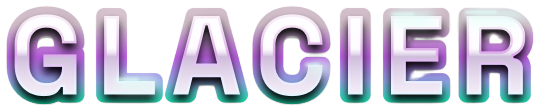
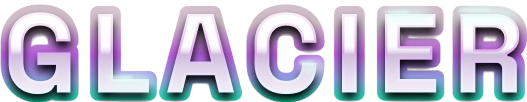
changes to Home and Nav

diff --git a/styles/themes/fantomTheme.ts b/styles/themes/fantomTheme.ts
@@ -18,45 +18,21 @@ export const fantomTheme: Partial<ChakraTheme> = {
     textStyles: {
         h1: {
             fontFamily: `'Space Grotesk', -apple-system, BlinkMacSystemFont, "Segoe UI", Roboto, "Helvetica Neue", Arial, sans-serif`,
-            fontSize: ['3.0rem'],
-            lineHeight: '100%',
-            fontWeight: 'bold',
-            letterSpacing: '-0.1rem',
         },
         h2: {
             fontFamily: `'Space Grotesk', -apple-system, BlinkMacSystemFont, "Segoe UI", Roboto, "Helvetica Neue", Arial, sans-serif`,
-            fontSize: ['2.7rem'],
-            fontWeight: '300',
-            lineHeight: '100%',
-            letterSpacing: '-0.1rem',
         },
         h3: {
             fontFamily: `'Space Grotesk', -apple-system, BlinkMacSystemFont, "Segoe UI", Roboto, "Helvetica Neue", Arial, sans-serif`,
-            fontSize: ['1.8rem'],
-            fontWeight: '300',
-            lineHeight: '115%',
-            letterSpacing: '-0.05rem',
         },
         h4: {
             fontFamily: `'Space Grotesk', -apple-system, BlinkMacSystemFont, "Segoe UI", Roboto, "Helvetica Neue", Arial, sans-serif`,
-            fontSize: ['1.8rem'],
-            fontWeight: '300',
-            lineHeight: '115%',
-            letterSpacing: '-0.05rem',
         },
         h5: {
             fontFamily: `'Space Grotesk', -apple-system, BlinkMacSystemFont, "Segoe UI", Roboto, "Helvetica Neue", Arial, sans-serif`,
-            fontSize: ['1.5rem'],
-            fontWeight: '300',
-            lineHeight: '115%',
-            letterSpacing: '-0.03rem',
         },
         h6: {
             fontFamily: `'Space Grotesk', -apple-system, BlinkMacSystemFont, "Segoe UI", Roboto, "Helvetica Neue", Arial, sans-serif`,
-            fontSize: ['1.2rem'],
-            fontWeight: '300',
-            lineHeight: '115%',
-            letterSpacing: '-0.03rem',
         },
     },
     colors: {

diff --git a/modules/home/components/HomeHero.tsx b/modules/home/components/HomeHero.tsx
@@ -31,8 +31,8 @@ export function HomeHero() {
             boxShadow="0px 0px 24px 0px rgba(0,0,0,0.25);"
         >
            
-            <Flex flex="1" pl={{ base: '4', xl: '8' }} mb="12" alignItems="center" lineHeight="2">
-                <Flex flexDirection="column" width={{ base: 'auto', lg: '580px' }}            mr="8"
+            <Flex flex="1" pl={{ base: '4', xl: '8' }} mb="12" alignItems="center">
+                <Flex flexDirection="column" width={{ base: 'auto', lg: '580px' }} mr="8"
                         ml="16">
                 <img src='/images/glaciertext.png'
                     width="500"
@@ -40,13 +40,14 @@ export function HomeHero() {
                     <Text
                         color="white"
                         textStyle={{ base: undefined, lg: 'h5' }}
-                        fontSize={{ base: 'lg', lg: undefined }}
+                        fontSize='28px'
                         mb={{ base: '6', lg: '10' }}
                         mt="10"
-                        maxW="400"
-            
+                        maxW="550"
+                        lineHeight="40px"
+                        letterSpacing="2px"
                     >
-                        The future of DeFi re-imagineered. Your next generation Decentralised Exchange
+                        The future of DeFi re-imagined. Your next generation Decentralised Exchange
                     </Text>
 
                     <HStack spacing="4" mb={{ base: '6', lg: '10' }}>

diff --git a/modules/nav/SubNavBar.tsx b/modules/nav/SubNavBar.tsx
@@ -16,7 +16,7 @@ export function SubNavBar() {
 
     return (
         <HStack px={{ base: '4', xl: '8' }} justifyContent="flex-end" mt="5">
-            <BeetsBox px="4" py="2" rounded="lg" display="flex">
+            <BeetsBox px="3" py="1" rounded="none" border="1px" borderColor="white" display="flex">
                 <SubNavBarStat
                     loading={loading && !protocolData}
                     value={protocolData?.totalLiquidity || '0'}
@@ -40,7 +40,7 @@ export function SubNavBar() {
                     {loading && !beetsPrice ? (
                         <Skeleton height="16px" width="54px" />
                     ) : (
-                        <Text fontWeight="semibold" fontSize={{ base: 'sm', lg: 'md' }}>
+                        <Text fontWeight="semibold" fontSize={{ base: 'xs', lg: 'sm' }}>
                             {numeral(beetsPrice).format('$0.00[00]')}
                         </Text>
                     )}

diff --git a/modules/nav/SubNavBarStat.tsx b/modules/nav/SubNavBarStat.tsx
@@ -11,13 +11,13 @@ interface Props extends StackProps {
 export function SubNavBarStat({ label, value, loading, ...rest }: Props) {
     return (
         <HStack mr={5} {...rest}>
-            <Text color="gray.200" fontSize={{ base: 'sm', lg: 'md' }}>
-                {label}:
+            <Text color="#FF00D6" fontSize={{ base: 'xs', lg: 'sm' }}>
+                {label}
             </Text>
             {loading ? (
                 <Skeleton height="16px" width="54px" />
             ) : (
-                <Text fontWeight="semibold" fontSize={{ base: 'sm', lg: 'md' }}>
+                <Text fontWeight="semibold" fontSize={{ base: 'xs', lg: 'sm' }}>
                     {numeral(value).format('$0.00a')}
                 </Text>
             )}

diff --git a/components/box/BeetsBox.tsx b/components/box/BeetsBox.tsx
@@ -4,7 +4,7 @@ interface Props extends BoxProps {}
 
 export function BeetsBox({ children, ...rest }: Props) {
     return (
-        <Box bgColor="box.500" rounded="md" {...rest}>
+        <Box bgColor="transparent" rounded="md" {...rest}>
             {children}
         </Box>
     );
